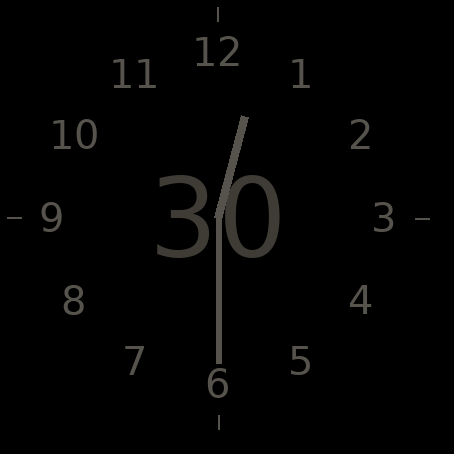
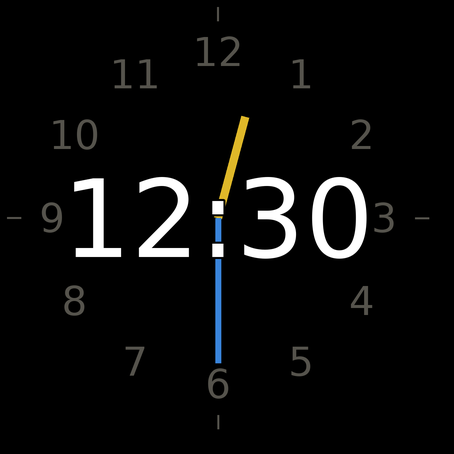
Add Kyiv air alert status to Night Flieger

diff --git a/README.uk.md b/README.uk.md
@@ -2,23 +2,27 @@
 
 [English](README.md)
 
-Аналоговий циферблат Garmin Connect IQ для Forerunner 965. В активному режимі показує місцевий час, день тижня й число місяця, рівень заряду та точне значення хвилин. У режимі Always-On Display видно стрілки, годинні цифри й мітки та велике число хвилин у центрі.
+Аналоговий циферблат Garmin Connect IQ для Forerunner 965. В активному режимі показує місцевий час, день тижня й число місяця, рівень заряду та точне значення хвилин. У режимі Always-On Display видно стрілки, годинні цифри й мітки та білий цифровий час у центрі.
 
 ## Вигляд циферблата
 
-![Night Flieger о 12:30. Угорі SAT 21, ліворуч BAT 100, праворуч 30](docs/night-flieger-preview.png)
+![Night Flieger о 12:30. Угорі SAT 21, ліворуч BAT 60, праворуч 30](docs/night-flieger-preview.png)
 
 | На екрані | Що означає |
 | --- | --- |
 | `SAT 21` угорі | Субота, 21-ше число місяця. |
-| `100` над `BAT` ліворуч | Рівень заряду числом від 0 до 100. Червоні поділки показують рівень заряду. |
+| `60` над `BAT` ліворуч | Рівень заряду числом від 0 до 100. Шкала заповнюється за годинниковою стрілкою пропорційно заряду. Активні поділки зелені при 60–100, темно-жовті при 30–59 і темно-червоні при 1–29. При нульовому заряді всі поділки приглушені. |
 | `30` праворуч | Поточна хвилина. У цьому прикладі стрілки показують 12:30. |
 
 ### Вигляд у режимі Always-On
 
-![Night Flieger у режимі Always-On о 12:30. Число 30 розташоване в центрі під стрілками](docs/night-flieger-always-on.png)
+![Night Flieger у режимі Always-On о 12:30. Білий цифровий час у центрі, годинна стрілка жовта, хвилинна синя](docs/night-flieger-always-on.png)
 
-Число в центрі показує поточну хвилину. Дата й рівень заряду відображаються в активному режимі.
+У центрі показано місцевий час. Годинна стрілка жовта, а хвилинна — синя. Дата й рівень заряду відображаються в активному режимі.
+
+## Кольори повітряної тривоги в Києві
+
+Night Flieger перевіряє статус міста Києва через Garmin Connect. За свіжими даними хвилини в активному режимі й час в Always-On білі за відсутності тривоги, жовті за жовтого рівня та червоні за червоного. Помаранчева остання цифра означає помилку перевірки або дані давніші за сім хвилин. У такому разі перевірте статус у застосунку на телефоні. Garmin планує перевірки кожні п’ять хвилин і може запускати їх із затримкою. [Дані статусу від Tryvoha.online](https://tryvoha.online/)
 
 ## Структура проєкту
 

diff --git a/README.md b/README.md
@@ -2,23 +2,27 @@
 
 [Українська](README.uk.md)
 
-An analog Garmin Connect IQ watch face for the Forerunner 965. The active display shows local time, the weekday and day of the month, battery level, and the exact minute. Always-On Display shows the hands, hour numbers, hour markers, and a large minute readout in the center.
+An analog Garmin Connect IQ watch face for the Forerunner 965. The active display shows local time, the weekday and day of the month, battery level, and the exact minute. Always-On Display shows the hands, hour numbers, hour markers, and a large white time readout in the center.
 
 ## Watch face preview
 
-![Night Flieger at 12:30 with SAT 21 at the top, BAT 100 on the left, and 30 on the right](docs/night-flieger-preview.png)
+![Night Flieger at 12:30 with SAT 21 at the top, BAT 60 on the left, and 30 on the right](docs/night-flieger-preview.png)
 
 | On the display | Meaning |
 | --- | --- |
 | `SAT 21` at the top | Saturday, the 21st day of the month. |
-| `100` above `BAT` on the left | Battery level, shown as a number from 0 to 100. The red marks indicate the charge level. |
+| `60` above `BAT` on the left | Battery level, shown as a number from 0 to 100. The ring fills clockwise in proportion to the remaining charge. The filled marks are green at 60–100, dark yellow at 30–59, and dark red at 1–29. At zero, all marks are dim. |
 | `30` on the right | The current minute. In this example, the hands show 12:30. |
 
 ### Always-On preview
 
-![Night Flieger Always-On display at 12:30, with 30 centered behind the hands](docs/night-flieger-always-on.png)
+![Night Flieger Always-On display at 12:30, with white digital time and yellow and blue hands](docs/night-flieger-always-on.png)
 
-The center number shows the current minute. Date and battery level appear on the active display.
+The center shows the local time. The hour hand is yellow and the minute hand is blue. Date and battery level appear on the active display.
+
+## Kyiv air alert colors
+
+Night Flieger checks the status of the city of Kyiv through Garmin Connect. With fresh data, the active minute readout and Always-On time are white when no alert is active, yellow at the yellow level, and red at the red level. An orange last digit means the check failed or the source data is more than seven minutes old. Check the alert app on your phone in that case. Garmin schedules checks at five-minute intervals and may run them later. [Status data by Tryvoha.online](https://tryvoha.online/)
 
 ## Project structure
 
